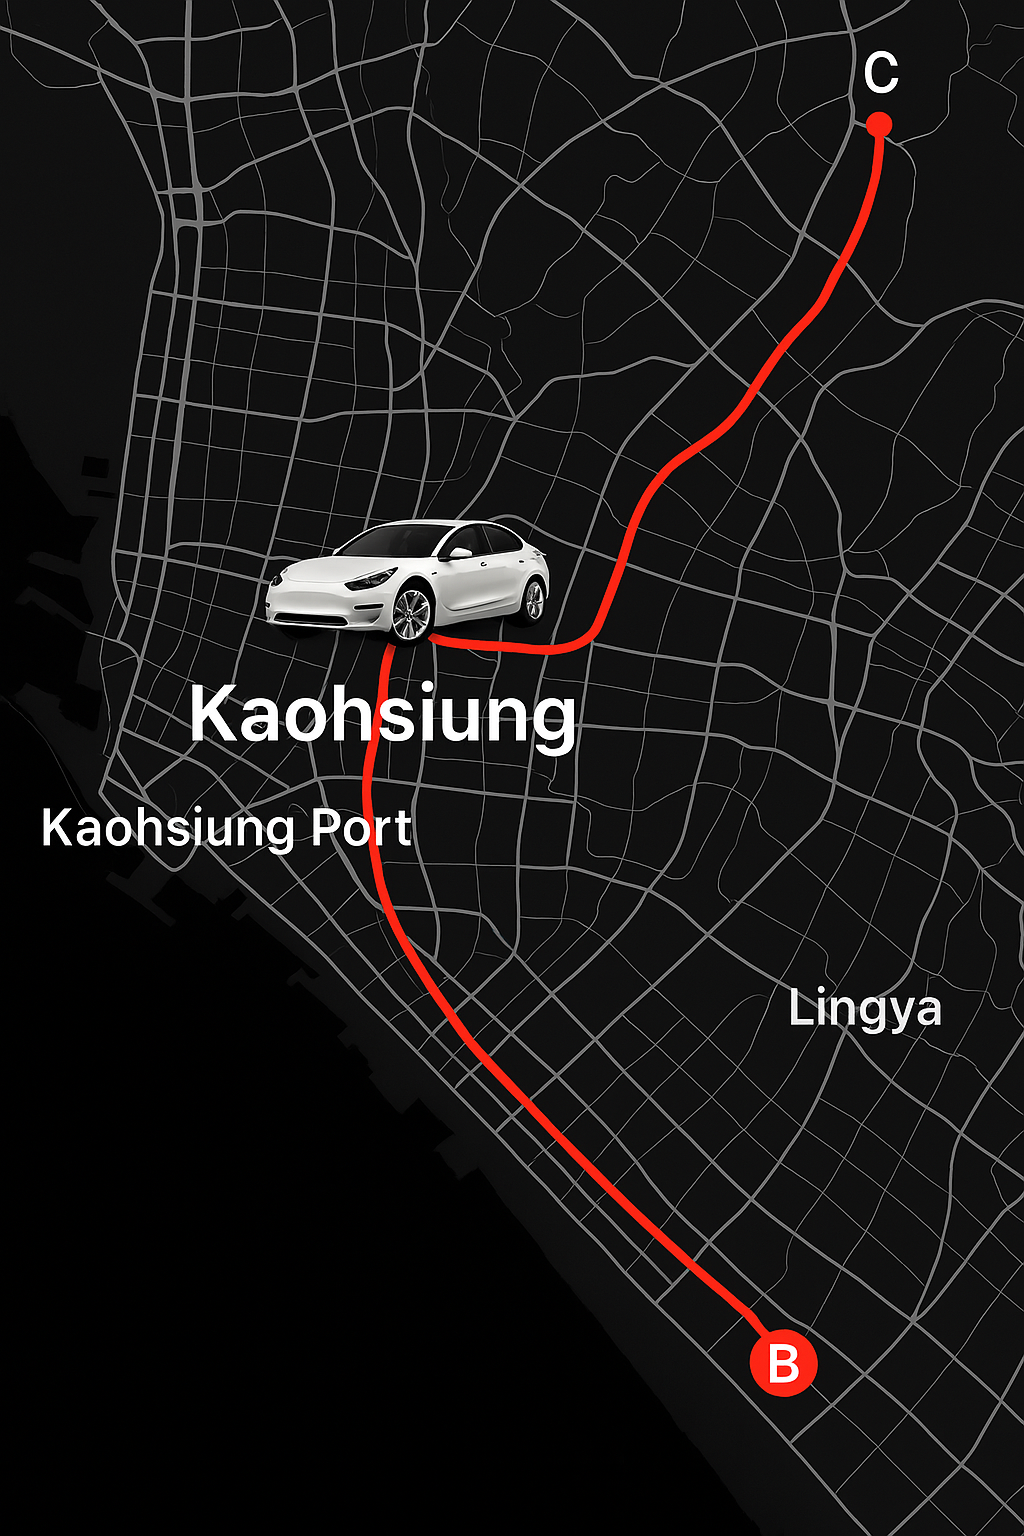
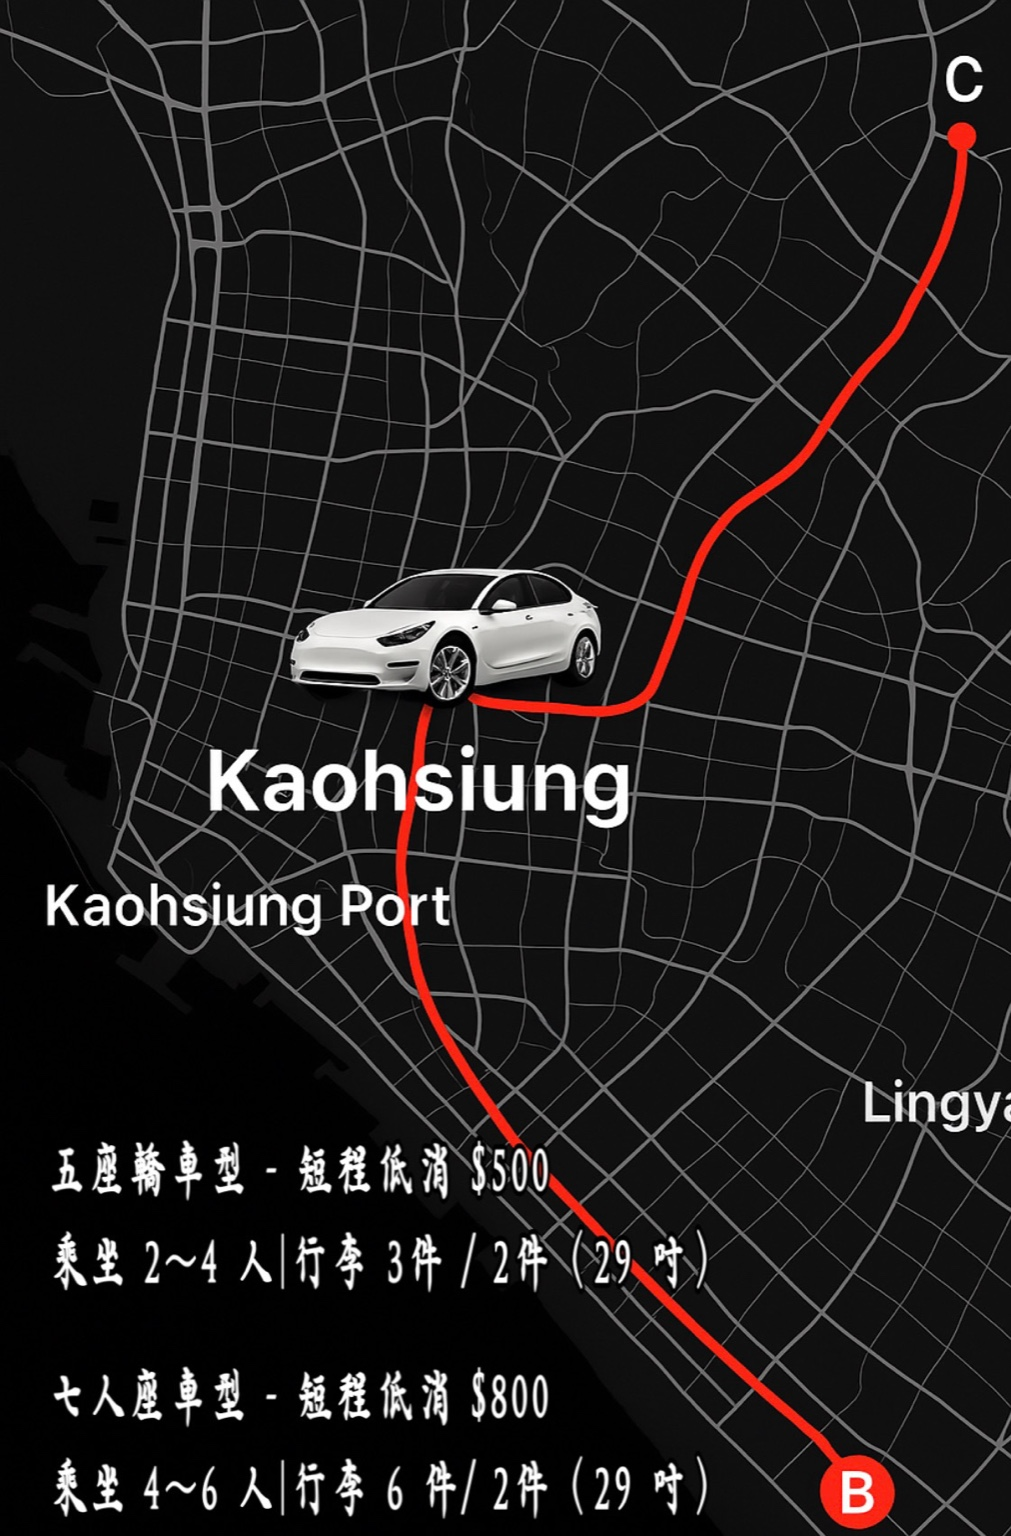
Add files via upload

diff --git a/index.html b/index.html
@@ -34,15 +34,11 @@
     <div class="note-block">
       <h2>如何預約搭乘？</h2>
       <p>本系統採預約制！請勿即時叫車<br>為避免你的司機已有預約行程，<br>通常在前一天以上預約行程，保證都可以預約得到車輛哦！</p>
-      <p>第一次預約需完成線上支付，搭乘方便又快速。</p>
-      <hr>
-      <p><strong>五座轎車型 - 短程低消 $500</strong><br>乘坐 2～4 人｜行李 3件 / 2件（29 吋）</p>
-      <p><strong>七人座車型 - 短程低消 $800</strong><br>乘坐 4～6 人｜行李 6 件/ 2件（29 吋）</p>
     </div>
   </div>
 
   <div id="finalMap" class="hidden">
-    <img src="Google.png" alt="Google 地圖圖示" class="full-image" />
+    <img src="Google_with_text.png" alt="Google 地圖圖示" class="full-image" />
     <div class="form-block">
       <label for="phone">請輸入手機號碼（必填）</label>
       <input type="tel" id="phone" name="phone" required />
@@ -76,6 +72,6 @@
     <div id="fareAmount" style="position: absolute; top: 50%; left: 50%; transform: translate(-50%, -50%); font-size: 3em; font-weight: bold; color: white;"></div>
   </div>
 
-  <script src="script.js?v=20250405"></script>
+  <script src="script.js?v=20250406"></script>
 </body>
 </html>
